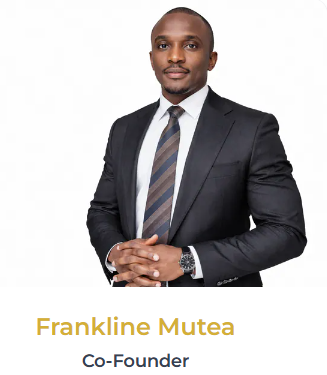
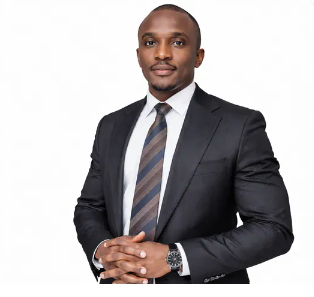
Separate Nova Wealth founder testimonials

diff --git a/index.html b/index.html
@@ -195,14 +195,20 @@
                 </article>
                 <article class="testimonial-card">
                   <blockquote>
-                    <p>“When we needed help bringing Nova Wealth online, we chose Myra for her expertise. She did a wonderful job on the Nova Wealth platform and helped us publish it online. Thank you, Myra.”</p>
+                    <p>“When we needed someone to help Nova Wealth get online, we chose Myra for her expertise. She did a wonderful job on the platform. Thank you, Myra.”</p>
                   </blockquote>
                   <footer class="testimonial-author">
-                    <span class="testimonial-portraits">
-                      <img src="assets/frankline-mutea.png" alt="Frankline Mutea">
-                      <img src="assets/janet-mavisi.png" alt="Janet Mavisi">
-                    </span>
-                    <span><strong>Frankline Mutea &amp; Janet Mavisi</strong><span>Co-founders, Nova Wealth</span></span>
+                    <img src="assets/janet-mavisi.png?v=2" alt="Janet Mavisi">
+                    <span><strong>Janet Mavisi</strong><span>Co-founder, Nova Wealth</span></span>
+                  </footer>
+                </article>
+                <article class="testimonial-card">
+                  <blockquote>
+                    <p>“Myra helped Nova Wealth get online, and the platform turned out so well. We appreciated her expertise and support getting it published online.”</p>
+                  </blockquote>
+                  <footer class="testimonial-author">
+                    <img src="assets/frankline-mutea.png?v=2" alt="Frankline Mutea">
+                    <span><strong>Frankline Mutea</strong><span>Co-founder, Nova Wealth</span></span>
                   </footer>
                 </article>
               </div>
@@ -218,14 +224,20 @@
                 </article>
                 <article class="testimonial-card">
                   <blockquote>
-                    <p>“When we needed help bringing Nova Wealth online, we chose Myra for her expertise. She did a wonderful job on the Nova Wealth platform and helped us publish it online. Thank you, Myra.”</p>
+                    <p>“When we needed someone to help Nova Wealth get online, we chose Myra for her expertise. She did a wonderful job on the platform. Thank you, Myra.”</p>
                   </blockquote>
                   <footer class="testimonial-author">
-                    <span class="testimonial-portraits">
-                      <img src="assets/frankline-mutea.png" alt="">
-                      <img src="assets/janet-mavisi.png" alt="">
-                    </span>
-                    <span><strong>Frankline Mutea &amp; Janet Mavisi</strong><span>Co-founders, Nova Wealth</span></span>
+                    <img src="assets/janet-mavisi.png?v=2" alt="">
+                    <span><strong>Janet Mavisi</strong><span>Co-founder, Nova Wealth</span></span>
+                  </footer>
+                </article>
+                <article class="testimonial-card">
+                  <blockquote>
+                    <p>“Myra helped Nova Wealth get online, and the platform turned out so well. We appreciated her expertise and support getting it published online.”</p>
+                  </blockquote>
+                  <footer class="testimonial-author">
+                    <img src="assets/frankline-mutea.png?v=2" alt="">
+                    <span><strong>Frankline Mutea</strong><span>Co-founder, Nova Wealth</span></span>
                   </footer>
                 </article>
               </div>

diff --git a/styles.css b/styles.css
@@ -165,12 +165,10 @@ h1, h2 { font-family: var(--font-display); }
 .testimonial-card blockquote { margin: 0 0 22px; }
 .testimonial-card blockquote p { margin: 0; color: var(--ink); font: 500 14px/1.8 var(--font-body); }
 .testimonial-author { display: flex; align-items: center; gap: 12px; }
-.testimonial-author > img, .testimonial-portraits img { width: 54px; height: 54px; flex: 0 0 auto; border: 2px solid white; border-radius: 50%; object-fit: cover; object-position: center 20%; }
+.testimonial-author > img { width: 54px; height: 54px; flex: 0 0 auto; border: 2px solid white; border-radius: 50%; object-fit: cover; object-position: center 20%; }
 .testimonial-author > span:last-child { display: flex; flex-direction: column; }
 .testimonial-author strong { font-size: 12px; line-height: 1.5; }
 .testimonial-author span span { color: var(--muted); font-size: 10px; }
-.testimonial-portraits { display: flex; flex: 0 0 auto; padding-left: 9px; }
-.testimonial-portraits img + img { margin-left: -13px; }
 @keyframes testimonials-scroll { to { transform: translateX(-50%); } }
 
 .samples-section { padding-bottom: 105px; }
